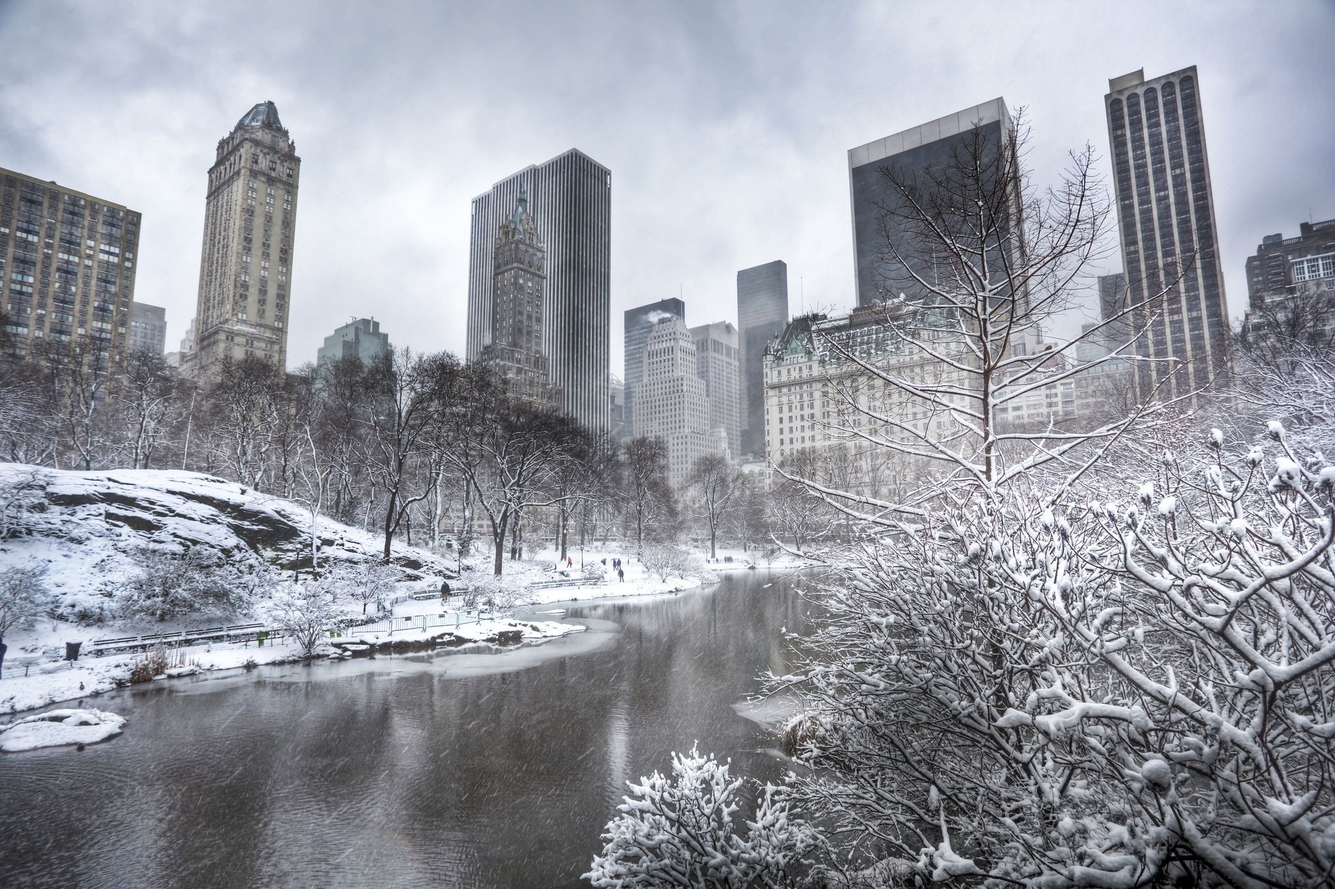
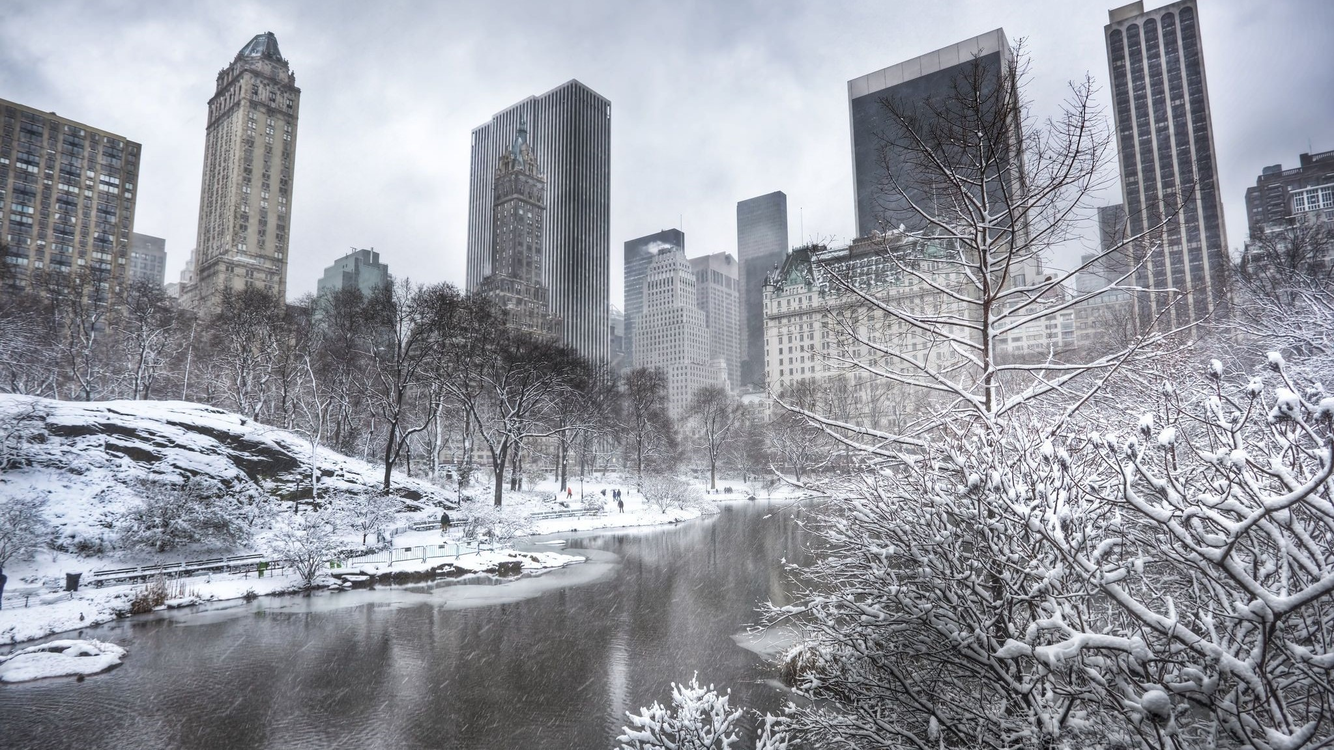
Added homescreen background images

diff --git a/web/src/components/Main.vue b/web/src/components/Main.vue
@@ -19,27 +19,19 @@
         'background-size': 'cover',
       }"
     >
-      <h3>Game Mode</h3>
-      <div class="deck">
-        <b-card
-          footer="Singleplayer"
-          img-top
-          img-src="./singleplayer.png"
-          img-height="300px;"
-          :style="cardStyle"
-          class="mb-2"
-          v-on:click="play('singleplayer')"
-        >
-        </b-card>
-        <b-card
-          footer="Multiplayer"
-          img-top
-          img-src="./multiplayer.png"
-          img-height="300px;"
-          :style="cardStyle"
-          class="mb-2"
-          v-b-modal.lobbyselect
-        ></b-card>
+      <div class="home-content">
+        <h1 class="home-text outline">Explorer Lewis</h1>
+        <h3 class="home-text outline">
+          Explore the world and test your geographical knowledge
+        </h3>
+        <div class="gamemode-buttons">
+          <b-button class="play-button" v-on:click="play('singleplayer')"
+            >Singleplayer</b-button
+          >
+          <b-button class="play-button" v-on:click="play('multiplayer')"
+            >Multiplayer</b-button
+          >
+        </div>
       </div>
       <!--For multiplayer create or join lobby-->
       <!--Change ok button to cancel button since there isn't a way to only display cancel-->
@@ -118,20 +110,23 @@ export default {
 };
 </script>
 
-<style scoped>
+<style>
 .main {
+  position: relative;
   min-height: 100vh;
+  background-color: rgba(0, 0, 0, 0.5);
+  background-blend-mode: multiply;
+  font-family: Tahoma, Verdana, sans-serif;
 }
-h3 {
-  text-align: center;
-  padding-top: 1em;
-  padding-bottom: 1.5em;
-}
-.deck {
-  flex-flow: row wrap;
-  display: flex;
+.home-content {
   justify-content: center;
+  padding-top: 20%;
+}
+.gamemode-buttons {
+  display: flex;
   column-gap: 4em;
+  justify-content: center;
+  padding: 1em;
 }
 #nav a.router-link-exact-active {
   background-color: gray;
@@ -144,4 +139,18 @@ h3 {
 .modalButton {
   margin: auto;
 }
+.play-button {
+  background-color: rgba(0, 0, 0, 0.3);
+  color: rgb(255, 255, 255);
+  border-color: rgba(0, 0, 0, 0.1);
+  font-size: 1.5em;
+}
+.home-text {
+  color: white;
+  text-align: center;
+}
+/* .outline {
+  text-shadow: -1px -1px 0 #000, 1px -1px 0 #000, -1px 1px 0 #000,
+    1px 1px 0 #000;
+} */
 </style>

diff --git a/web/src/components/Header.vue b/web/src/components/Header.vue
@@ -4,7 +4,7 @@
       <b-navbar-brand
         tag="h1"
         style="cursor: pointer; color: white; font-size: 2em;"
-        >Lewis & Clark</b-navbar-brand
+        >Lewis</b-navbar-brand
       >
     </router-link>
   </b-navbar>
